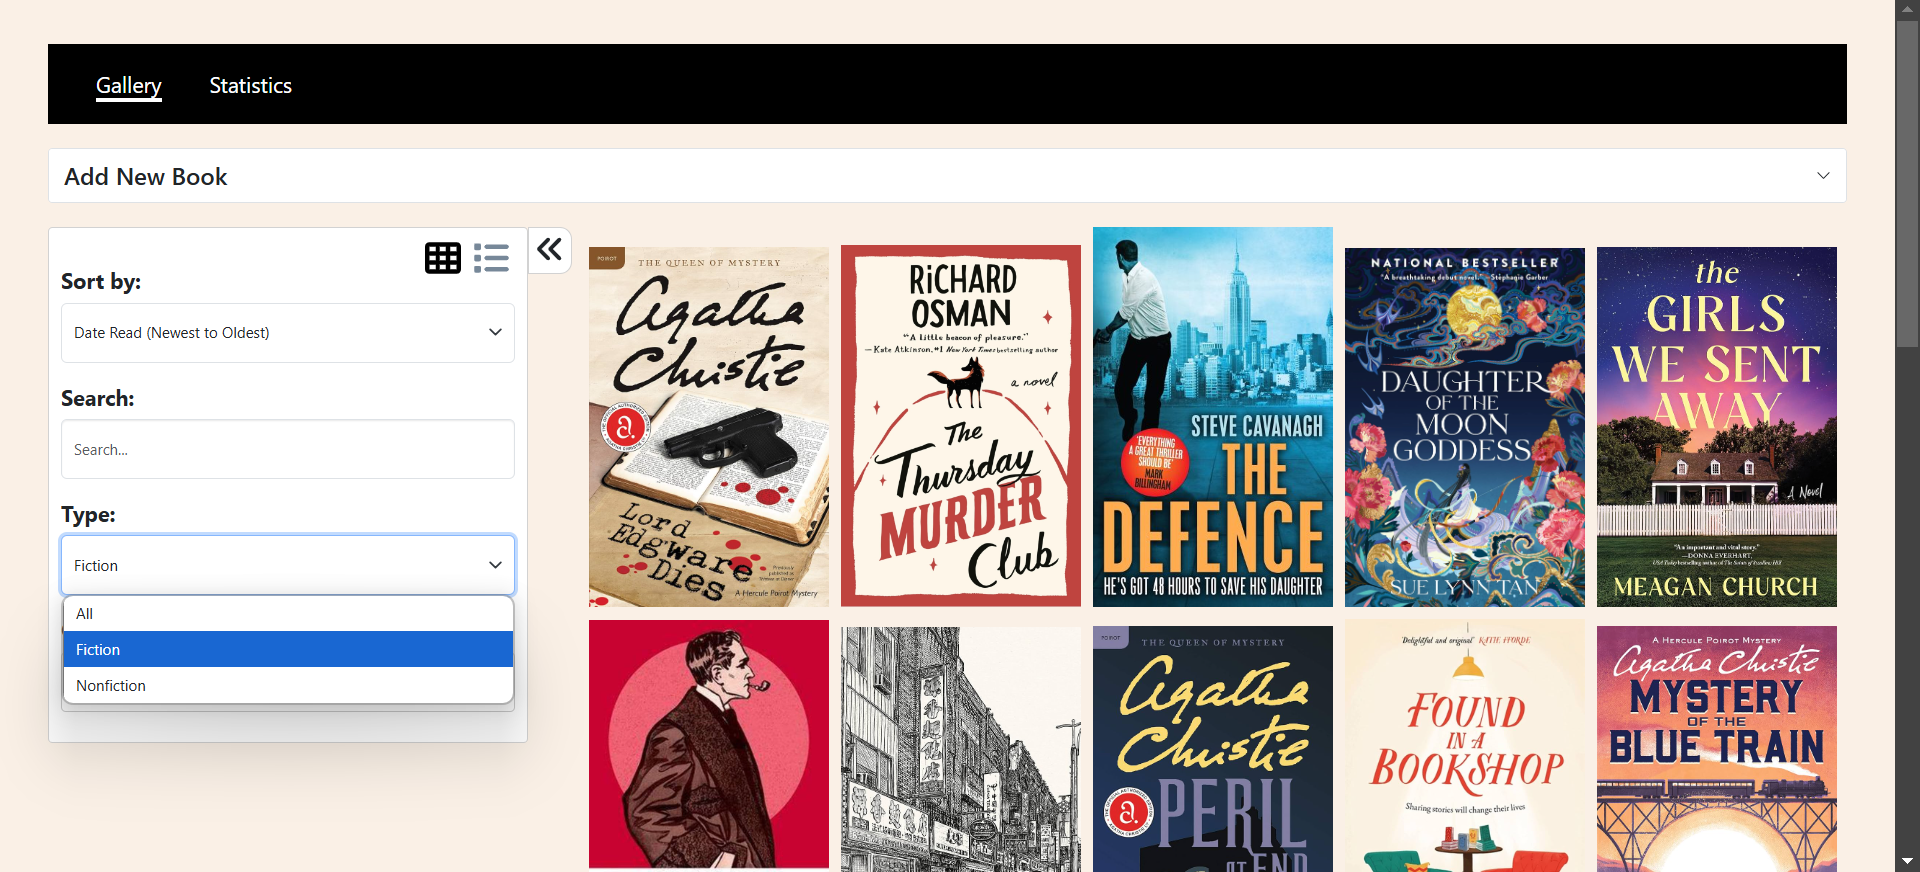
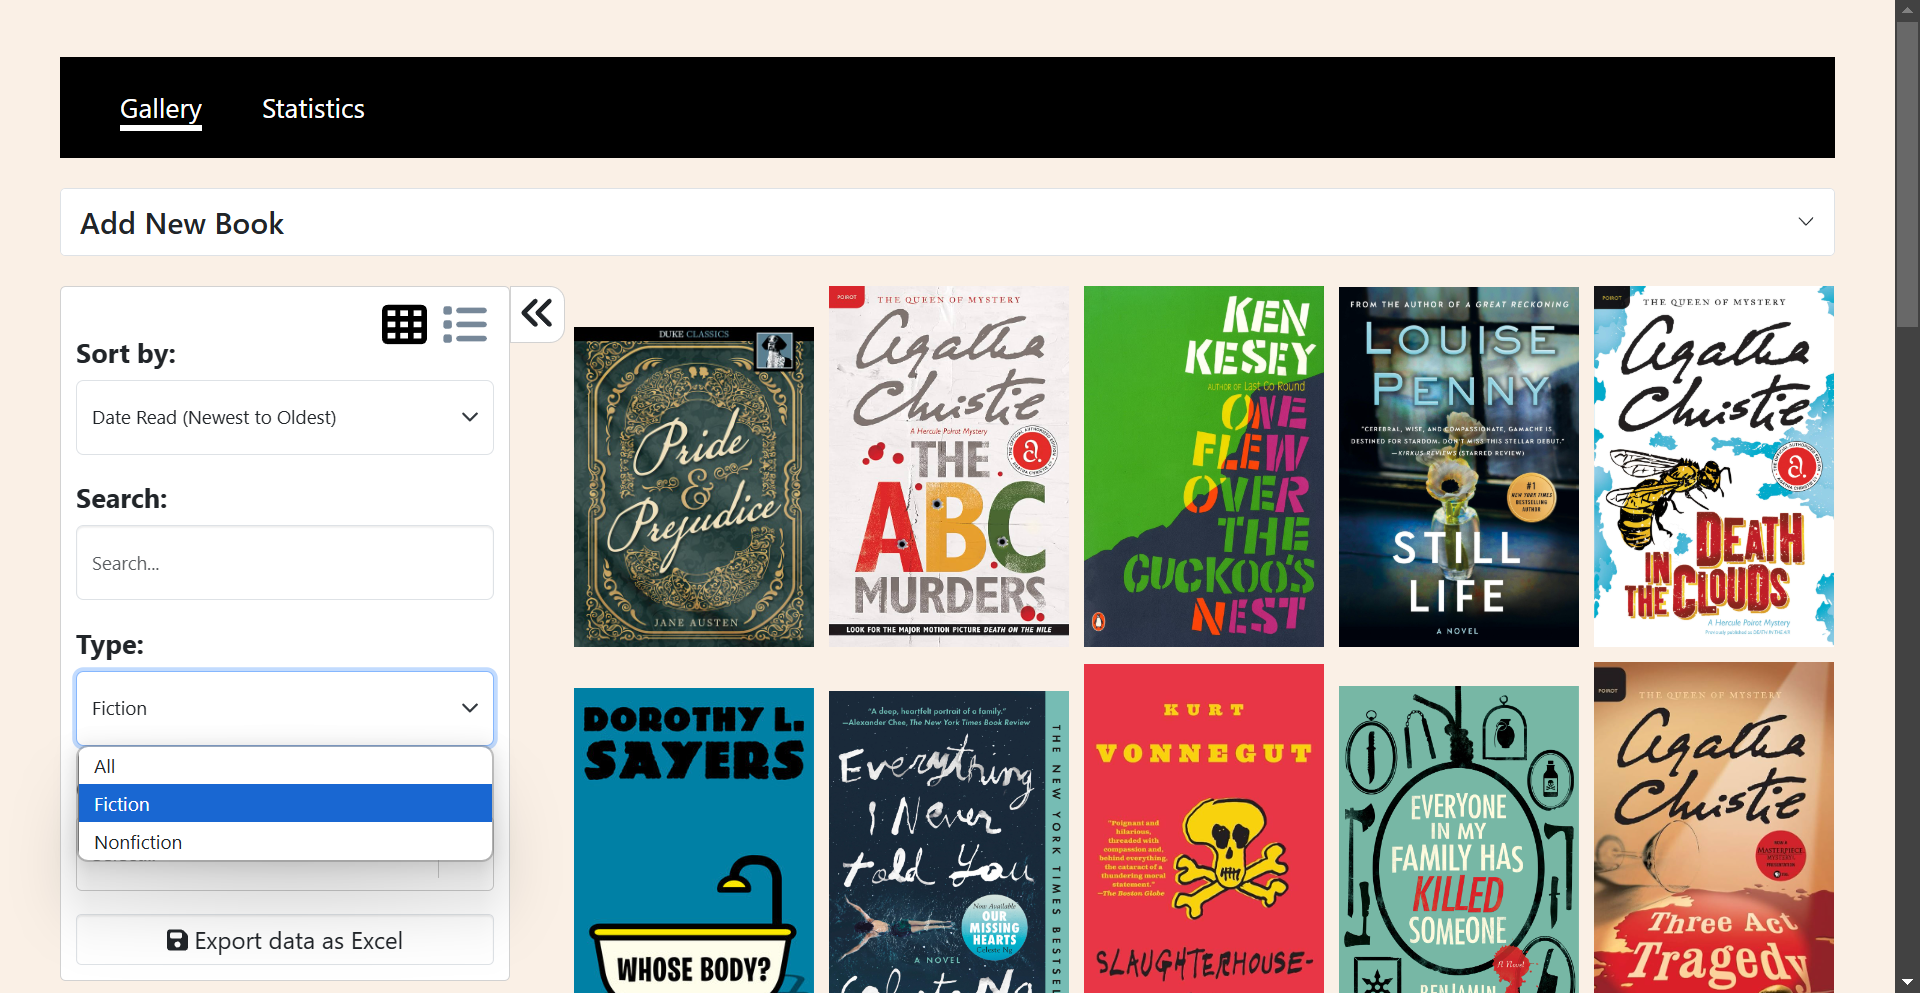
feat: download data as Excel document

diff --git a/server/index.js b/server/index.js
@@ -5,6 +5,7 @@ const request = require('request');
 const express = require("express");
 const bodyParser = require('body-parser');
 var multer = require('multer');
+const XLSX = require("xlsx");
 
 function Book(id, title, author, description, imageurl, date, type, genres, pageCount) {
 	this.id = id;
@@ -82,7 +83,7 @@ app.post('/addBook', upload.single('cover'), function(req, res) {
 	let today = new Date();
 	const book = new Book(Number(req.body.id), 
 							req.body.title,
-							req.body.author, 
+							req.body.author.split(", "), 
 							req.body.description, 
 							setImageFileName(req), 
 							today, 
@@ -100,9 +101,56 @@ app.get('/getBooks', function(req, res) {
 	db.findAllBooks().then((result) => {
 		var books = [];
 		for (const book of result) {
-			books.push(new Book(book.id, book.title, book.author, book.description, book.imageurl, book.date, book.type, book.genres, book.pagecount));
+			books.push(new Book(book.id, book.title, book.author.join(", "), book.description, book.imageurl, book.date, book.type, book.genres, book.pagecount));
 		}
-		res.json({ message: result });
+		res.json({ message: books });
+	}).catch(console.dir);
+});
+
+app.get('/download', function(req, res) {
+	db.findAllBooks().then((result) => {
+		// Books Sheet
+		var bookdata = JSON.parse(JSON.stringify(result));
+		bookdata.map((book, index) => {
+			book._id = book._id.toString();
+			book.author = book.author.join(", ");
+			book.genres = book.genres.join(", ");
+			return book;
+		});
+		var workbook = XLSX.utils.book_new();
+		var ws_allData = XLSX.utils.json_to_sheet(bookdata);
+		XLSX.utils.book_append_sheet(workbook, ws_allData, "Books");
+		let exportFileName = "Books.xlsx";
+
+		Promise.all([
+			db.countTotalBooksRead(false),
+			db.countTotalPagesRead(false),
+			db.findTopAuthors(false),
+			db.findTopGenres(false),
+			db.countType(false),
+		]).then((stats) => {
+			// Statistics Sheet
+			var statsData = [
+				["Statistic", "Value"],
+				["Total Books Read", stats[0]],
+				["Total Pages Read", stats[1]],
+				["Total Fiction Books Read", stats[4].find((obj) => obj.title === "Fiction").value],
+				["Total Nonfiction Books Read", stats[4].find((obj) => obj.title === "Nonfiction").value]
+			  ];
+			var ws_stats = XLSX.utils.aoa_to_sheet(statsData);
+			XLSX.utils.book_append_sheet(workbook, ws_stats, "Statistics");
+
+			// Authors Sheet
+			var ws_authors = XLSX.utils.json_to_sheet(stats[2]);
+			XLSX.utils.book_append_sheet(workbook, ws_authors, "Authors");
+
+			// Genres Sheet
+			var ws_genres = XLSX.utils.json_to_sheet(stats[3]);
+			XLSX.utils.book_append_sheet(workbook, ws_genres, "Genres");
+
+			XLSX.writeFile(workbook, "./server/public/" + exportFileName);
+			res.download("./server/public/" + exportFileName);
+		});
 	}).catch(console.dir);
 });
 

diff --git a/client/src/Gallery.jsx b/client/src/Gallery.jsx
@@ -3,7 +3,7 @@ import './App.css';
 
 import {Card, Collapse, Form, Table} from "react-bootstrap";
 import {FontAwesomeIcon} from '@fortawesome/react-fontawesome'
-import {faTh, faList, faAnglesRight, faAnglesLeft} from "@fortawesome/free-solid-svg-icons"
+import {faTh, faList, faAnglesRight, faAnglesLeft, faSave} from "@fortawesome/free-solid-svg-icons"
 import Select from 'react-select'
 
 import Book from "./components/Book";
@@ -141,6 +141,23 @@ function Gallery() {
 		filterBooks(searchTerm, filterType, genres);
 	}
 
+	function downloadData() {
+		fetch("/download")
+		.then((res) => res.blob())
+		.then((blob) => {
+			const url = window.URL.createObjectURL(new Blob([blob]));
+			const link = document.createElement("a");
+			link.href = url;
+			link.download = "books.xlsx";
+			document.body.appendChild(link);
+	
+			link.click();
+	
+			document.body.removeChild(link);
+			window.URL.revokeObjectURL(url);
+		});
+	}
+
 	React.useEffect(() => {
 		fetch("/getBooks")
 		.then((res) => res.json())
@@ -258,6 +275,7 @@ function Gallery() {
 								</Form.Select>
 								<Form.Label htmlFor="filterGenre">Genre(s):</Form.Label>
 								<Select options={genres} isMulti="true" className="form-input" id="filterGenre" name="filterGenre" onChange={(selectedOptions) => filterBooksByGenres(selectedOptions)} />
+								<button id="exportBtn" className="form-control" onClick={downloadData}><FontAwesomeIcon icon={faSave}/> Export data as Excel</button>
 							</Card>
 						</div>
 					</Collapse>

diff --git a/client/src/components/NewBookForm.jsx b/client/src/components/NewBookForm.jsx
@@ -61,7 +61,7 @@ export default function NewBookForm(props) {
 			document.getElementById("descriptionText").innerHTML = data.volumeInfo.description;
 			document.getElementById("description").value = document.getElementById("descriptionText").innerText;
 
-			let categories = data.volumeInfo.categories.join("<br>").replaceAll(" / ", "<br>").split("<br>");
+			let categories = data.volumeInfo.hasOwnProperty("categories") ? data.volumeInfo.categories.join("<br>").replaceAll(" / ", "<br>").split("<br>") : [];
 			categories = [...new Set(categories)];
 
 			if (categories.join().includes("Fiction")) {

diff --git a/client/src/components/ISBNModal.jsx b/client/src/components/ISBNModal.jsx
@@ -16,7 +16,7 @@ export default function ISBNModal(props) {
 	
 	const { ref } = useZxing({
 		paused : !props.showModal,
-		deviceId : deviceId != "" ? deviceId : "",
+		deviceId : deviceId !== "" ? deviceId : "",
 		onDecodeResult(result) {
 			const isbn = result.getText();
 			props.searchBook(isbn);

diff --git a/client/src/App.css b/client/src/App.css
@@ -245,3 +245,11 @@ video {
 	margin-left: 25%;
 	margin-right: 25%;
 }
+
+#exportBtn {
+	font-size: medium;
+}
+
+#exportBtn .svg-inline--fa {
+	height: 1em;
+}

diff --git a/README.md b/README.md
@@ -65,6 +65,13 @@ In addition, there is a page that displays numerous statistics, both in terms of
 ![Statistics 3](demo_img/demo13.png)
 *Statistics* 
 
+The statistics can also be downloaded into an Excel document by clicking the "Export data to Excel" button in the Gallery page. The Excel document contains four sheets: Books (all book data), Statistics (total books read, pages read, fiction books read and nonfiction books read), Authors (number of books read by each author), and Genres (number of books read in each genre)
+
+![Export](demo_img/demo18.png)
+*Exporting data*
+![Excel Spreadsheet](demo_img/demo19.png)
+*Excel spreadsheet*
+
 ## Built With
 ![MongoDB](https://img.shields.io/badge/MongoDB-4EA94B?style=for-the-badge&logo=mongodb&logoColor=white)
 ![Express JS](https://img.shields.io/badge/Express%20js-000000?style=for-the-badge&logo=express&logoColor=white)
